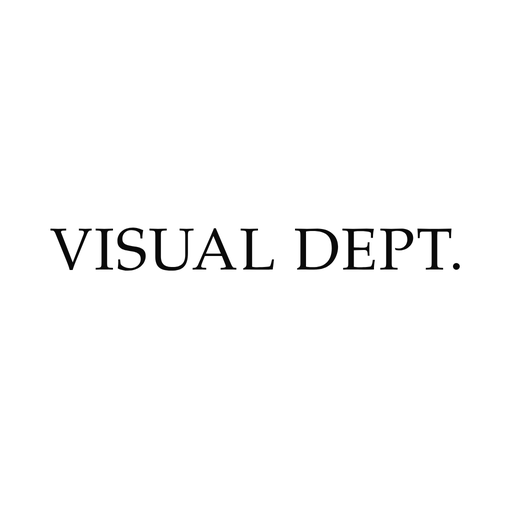
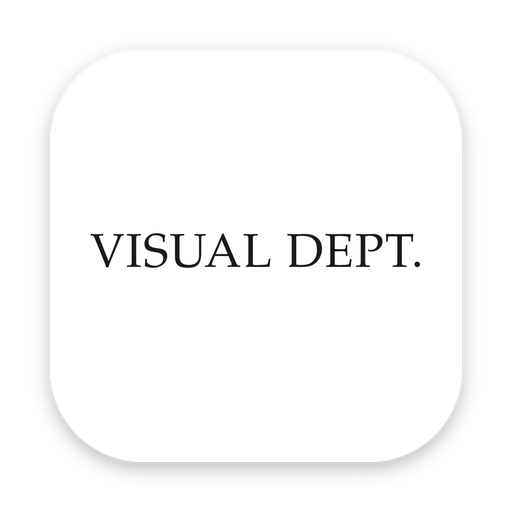
메인 배너 이미지 안 잘리게 보정, 제목 글자 줄임, 뉴스 썸네일, 둥근 앱 아이콘, 가입 승인 기능
- 배너: 칸과 비율이 다른 이미지는 전체를 보여주고 남는 곳은 같은 이미지를 흐리게 채움, 제목·요약 길이와 크기 줄임
- 뉴스: 모든 기사에 이미지 한 장(없으면 매체명 타일), 수집기가 기사 대표 이미지를 우선 사용하고 최근 2주 기사까지 채움
- 아이콘: 맥용 둥근 모서리 아이콘, 아이폰/안드로이드용 아이콘 분리, 캐시 갱신
- 가입 승인: members 명단 + 승인 대기 화면 + 관리자 회원 관리, 설정 SQL은 supabase/access.sql

Claude-Session: https://claude.ai/code/session_016iQssjkfjgjy4N2y3kdkik

Changed region(s): [[0.0625, 0.2812, 0.9062, 0.9375], [0.5625, 0.2812, 0.9375, 0.7188]]

diff --git a/index.html b/index.html
@@ -1,7 +1,8 @@
 <!doctype html>
 <html lang="en"><head><meta charset="utf-8"><meta name="viewport" content="width=device-width,initial-scale=1,viewport-fit=cover">
 <title>VISUAL DEPT.</title>
-<meta name="theme-color" content="#ffffff"><link rel="manifest" href="manifest.webmanifest"><link rel="icon" href="icon-192.png"><link rel="apple-touch-icon" href="apple-touch-icon.png">
+<meta name="theme-color" content="#ffffff"><link rel="manifest" href="manifest.webmanifest?v=3"><link rel="icon" href="icon-192.png?v=3"><link rel="apple-touch-icon" id="ati" href="apple-touch-icon.png?v=3">
+<script>if(/Mac/.test(navigator.platform)&&!navigator.maxTouchPoints)document.getElementById("ati").href="apple-touch-icon-mac.png?v=3"</script>
 <meta name="apple-mobile-web-app-capable" content="yes"><meta name="apple-mobile-web-app-title" content="VISUAL DEPT."><meta name="apple-mobile-web-app-status-bar-style" content="default">
 <style>body{margin:0}img{max-width:100%}[hidden]{display:none!important}:root{padding-top:env(safe-area-inset-top,0px);padding-bottom:env(safe-area-inset-bottom,0px)}</style>
 <script src="config.js"></script>
@@ -436,6 +437,32 @@ h1,h2,h3{margin:0;font-weight:400;text-wrap:balance}
 .gitem .ldel{position:absolute;right:4px;top:2px;border:0;background:none;color:var(--ink-3);font-size:14px;line-height:1;padding:2px 4px;display:none}
 .gitem:hover .ldel{display:block}
 .agrid .empty{column-span:all}
+
+/* v3 banner */
+.slide .bgi{inset:-60px;width:calc(100% + 120px);height:calc(100% + 120px);filter:blur(40px) saturate(1.05) brightness(.58);transform:none!important;transition:none;opacity:0}
+.slide.fitc .bgi{opacity:1}
+.slide .fgi{object-position:50% 30%}
+.slide.fitc .fgi{object-fit:cover;transform:none!important;box-shadow:0 30px 80px rgba(0,0,0,.35)}
+.slide::after{background:linear-gradient(180deg,rgba(0,0,0,0) 42%,rgba(0,0,0,.66) 100%)}
+.cap{max-width:640px;gap:10px}
+.cap h2{font-size:clamp(23px,2.5vw,38px);line-height:1.1;letter-spacing:0;display:-webkit-box;-webkit-line-clamp:3;-webkit-box-orient:vertical;overflow:hidden;text-wrap:balance}
+.ko .cap h2{font-size:clamp(21px,2.1vw,32px);line-height:1.32}
+.cap p{font-size:13.5px;line-height:1.6;max-width:52ch;display:-webkit-box;-webkit-line-clamp:2;-webkit-box-orient:vertical;overflow:hidden;opacity:.86}
+@media (max-width:600px){.slider{height:min(76vh,138vw);min-height:440px}.cap h2{font-size:22px}.ko .cap h2{font-size:20px}.cap p{font-size:13px}}
+/* v3 news thumbnails */
+.nrow .th{width:160px;aspect-ratio:3/2}
+.nrow .th.ph{display:grid;place-items:center;background:var(--soft);color:var(--ink-3);text-align:center;padding:10px;font-family:var(--f-mark);font-size:13px;letter-spacing:.04em;line-height:1.2;overflow:hidden}
+.nrow .th img{transition:transform .5s ease}.nrow .th:hover img{transform:scale(1.03)}
+@media (max-width:760px){.nrow{grid-template-columns:minmax(0,1fr) 108px}.nrow .th{width:108px}.nrow .th.ph{font-size:11px}}
+/* v3 members */
+#gateWait{width:min(380px,100%);display:grid;gap:10px;text-align:center}
+#gateWait .gw1{margin:8px 0 0;font-size:16px}#gateWait .gw2{margin:0;font-size:13.5px;color:var(--ink-2);line-height:1.6}#gateWait .gw3{margin:0;font-size:12px;color:var(--ink-3)}
+#gateWait .glinks{justify-content:center}
+.mrow{display:flex;align-items:center;justify-content:space-between;gap:12px;padding:10px 0;border-bottom:1px solid var(--line)}
+.mrow b{display:block;font-weight:500;font-size:14px;word-break:break-all}.mrow small{color:var(--ink-3);font-size:12px}
+.mrow .ma{display:flex;gap:6px;flex-shrink:0}.mrow .btn{padding:6px 10px;font-size:12px}
+.mrow.add{border:0;padding-top:0}.mrow.add .inp{flex:1;min-width:0}
+.hbtn.dots{position:relative}.hbtn.badge::after{content:"";position:absolute;top:6px;right:0;width:7px;height:7px;border-radius:50%;background:var(--alert,#c8102e)}
 </style>
 
 <div id="gate"><form id="gateForm" autocomplete="on"><h1 class="mark gmark">VISUAL DEPT.</h1>
@@ -443,7 +470,7 @@ h1,h2,h3{margin:0;font-weight:400;text-wrap:balance}
 <label class="vh" for="gatePw">Password</label><input class="inp" type="password" id="gatePw" autocomplete="current-password" minlength="6">
 <button class="btn" type="submit" id="gateIn"></button>
 <div class="glinks"><button type="button" id="gateUp"></button><button type="button" id="gateForgot"></button><button type="button" id="gateLang"></button></div>
-<p class="gerr" id="gateErr"></p><p class="gmsg" id="gateMsg"></p></form></div>
+<p class="gerr" id="gateErr"></p><p class="gmsg" id="gateMsg"></p></form><div id="gateWait" hidden></div></div>
 <div id="app" hidden>
 <div id="alert"></div>
 <header class="hd"><div class="in gut max">
@@ -719,14 +746,27 @@ function toggleSave(item){const k=item.id;if(saved[k]){const doc=saved[k]._doc||
 
 /* ================= DATA: issues & news ================= */
 const IMGATTR='referrerpolicy="no-referrer" decoding="async"';
+const slideFail=`onerror="const s=this.closest('.slide');s.classList.add('noimg');s.querySelectorAll('img').forEach(i=>i.remove())"`;
+const thumbFail=`onerror="const a=this.parentNode;a.classList.add('ph');const s=document.createElement('span');s.textContent=a.dataset.src||'';this.replaceWith(s)"`;
+function shortT(s,n){s=String(s||"").replace(/\s+/g," ").trim().replace(/\s+[|\-–—]\s+(Vogue|BoF|WWD|Hypebeast|Highsnobiety|Dazed|i-D|Fashionista|The Cut|ELLE|Harper's BAZAAR|GQ|Business of Fashion|FashionNetwork|Fashion Network)[^|]*$/i,"");if(s.length<=n)return s;let c=s.slice(0,n);const sp=c.lastIndexOf(" ");if(sp>n*.6)c=c.slice(0,sp);return c.replace(/[\s,.;:·–—-]+$/,"")+"…"}
+function fitSlide(im){const sl=im.closest(".slide");if(!sl||!im.naturalWidth)return;const box=sl.parentNode.getBoundingClientRect();const W=box.width||innerWidth,H=box.height||innerHeight*.7;
+  const ri=im.naturalWidth/im.naturalHeight,rs=W/H,d=Math.abs(Math.log(ri/rs));im.style.cssText="";
+  if(d<.24&&im.naturalWidth>=W*.5){sl.classList.remove("fitc");im.style.objectPosition=ri<rs?"50% 28%":"50% 50%";return}
+  sl.classList.add("fitc");let w=ri>rs?W:H*ri,h=ri>rs?W/ri:H;const tall=rs<1.05;
+  const pad=tall?0:Math.round(H*.07);if(!tall){const k=(H-2*pad)/h;if(k<1){w*=k;h*=k}}
+  const up=Math.min(1,(im.naturalWidth*1.6)/w);w*=up;h*=up;
+  let x=(W-w)/2,y=(H-h)/2;
+  if(tall){y=Math.max(Math.min((H-h)*.22,H*.16),0)}else if(ri<rs){x=Math.min(W-w-Math.max(W*.07,24),Math.max(W*.52,(W-w)/2));if(W<1000)x=(W-w)/2}
+  im.style.cssText=`inset:auto;left:${Math.round(x)}px;top:${Math.round(y)}px;width:${Math.round(w)}px;height:${Math.round(h)}px`}
+addEventListener("resize",()=>{clearTimeout(fitSlide.t);fitSlide.t=setTimeout(()=>document.querySelectorAll(".slide .fgi").forEach(fitSlide),150)});
 const imgFail=`onerror="this.closest('[data-img]')?.classList.add('noimg');this.remove()"`;
 
 let slideI=0,slideTimer=null,newsN=12,newsQ="";
 function home(){
   const s=SLIDES;if(!s.length)return `<section class="gut max"><div class="empty" style="padding-top:120px"><b>${t("News is on its way","뉴스를 모으는 중이에요")}</b>${t("Articles are collected every 2 hours. Check back soon.","기사는 2시간마다 자동으로 모여요. 잠시 후 다시 확인해 주세요.")}</div></section>`;
   return `<section class="slider" id="slider" aria-roledescription="carousel" aria-label="${t("Today's issues","오늘의 이슈")}">
-   ${s.map((x,i)=>`<div class="slide ${i===slideI?"on":""}" role="group" aria-label="${i+1} / ${s.length}" data-img><img src="${esc(x.img)}" alt="" ${IMGATTR} ${i>1?'loading="lazy"':""} ${imgFail}>
-     <div class="cap gut"><h2>${esc(t(x.title_en||x.title,x.title))}</h2>${x.summary?`<p>${esc(String(x.summary).slice(0,240))}${String(x.summary).length>240?"…":""}</p>`:""}
+   ${s.map((x,i)=>`<div class="slide ${i===slideI?"on":""}" role="group" aria-label="${i+1} / ${s.length}" data-img><img class="bgi" src="${esc(x.img)}" alt="" aria-hidden="true" ${IMGATTR} ${i>1?'loading="lazy"':""}><img class="fgi" src="${esc(x.img)}" alt="" ${IMGATTR} ${i>1?'loading="lazy"':""} onload="fitSlide(this)" ${slideFail}>
+     <div class="cap gut"><h2>${esc(shortT(t(x.title_en||x.title,x.title),lang==="ko"?42:78))}</h2>${x.summary?`<p>${esc(shortT(x.summary,lang==="ko"?90:150))}</p>`:""}
      <div class="acts"><a class="ext" href="${esc(x.url)}" target="_blank" rel="noopener">${t("Read","원문 보기")} ${SV.arrow}</a><button class="save" data-save="s:${i}">${isSaved(x.id)?SV.bookf:SV.book}<span>${isSaved(x.id)?t("Saved","저장됨"):t("Save","저장")}</span></button></div></div></div>`).join("")}
    <div class="pager gut"><div class="nums">${s.map((_,i)=>`<button data-sl="${i}" class="${i===slideI?"on":""}" aria-label="${i+1}">${String(i+1).padStart(2,"0")}</button>`).join("")}</div><span class="sp"></span><button class="arr" data-sl="prev" aria-label="Previous">${SV.l}</button><button class="arr" data-sl="next" aria-label="Next">${SV.r}</button></div>
    <span class="prog" id="prog"></span></section>
@@ -737,10 +777,10 @@ function home(){
 function newsRows(){const q=newsQ.trim().toLowerCase();const list=NEWS.filter(x=>!q||[x.title,x.title_en,x.summary,x.source,(x.tags||[]).join(" ")].join(" ").toLowerCase().includes(q));
   if(!list.length)return `<li class="empty"><b>${t("No matching news","찾는 뉴스가 없어요")}</b>${t("Try another keyword.","다른 키워드로 찾아 보세요.")}</li>`;
   return list.slice(0,newsN).map(x=>newsRow(x)).join("")+(list.length>newsN?`<li><button class="more" data-more>${t("More","더 보기")} (${list.length-newsN})</button></li>`:"")}
-function newsRow(x){return `<li class="nrow ${x.img?"":"noimg"}"><div class="d">${fmtMD(x.publishedAt||x.savedAt)}<b>${esc(x.source)}</b></div>
+function newsRow(x){return `<li class="nrow"><div class="d">${fmtMD(x.publishedAt||x.savedAt)}<b>${esc(x.source)}</b></div>
   <div><h3><a href="${esc(x.url)}" target="_blank" rel="noopener">${esc(t(x.title_en||x.title,x.title))}</a></h3>${lang==="ko"&&x.summary?`<p>${esc(x.summary)}</p>`:(x.title_en&&lang==="en"?`<p>${esc(x.title)}</p>`:"")}
   <div class="tg">${(x.tags||[]).slice(0,4).map(g=>"#"+esc(g)).join("  ")}</div></div>
-  ${x.img?`<a class="th" href="${esc(x.url)}" target="_blank" rel="noopener" data-img><img src="${esc(x.img)}" alt="" loading="lazy" ${IMGATTR} ${imgFail}></a>`:`<span class="th none"></span>`}
+  ${x.img?`<a class="th" href="${esc(x.url)}" target="_blank" rel="noopener" data-src="${esc(x.source||"")}"><img src="${esc(x.img)}" alt="" loading="lazy" ${IMGATTR} ${thumbFail}></a>`:`<a class="th ph" href="${esc(x.url)}" target="_blank" rel="noopener" aria-hidden="true" tabindex="-1"><span>${esc(x.source||"")}</span></a>`}
   <div class="side"><button class="save" data-save="n:${esc(x.id)}" aria-label="${t("Save","저장")}">${isSaved(x.id)?SV.bookf:SV.book}</button><a class="ext" href="${esc(x.url)}" target="_blank" rel="noopener">${t("Read","원문")} ${SV.arrow}</a></div></li>`}
 function startSlider(){clearInterval(slideTimer);const sl=$("#slider");if(!sl)return;const D=6500;
   const tick=()=>{const p=$("#prog");if(!p)return;p.style.transition="none";p.style.width="0";requestAnimationFrame(()=>{p.style.transition=`width ${D}ms linear`;p.style.width="100%"})};
@@ -1068,14 +1108,56 @@ function account(edit){const P=PREF.profile;const f=(k,l)=>`<div class="kv"><spa
    <div class="acts">${edit?`<button class="btn" id="meSave">${t("Save","저장")}</button>`:`<button class="btn ghost" id="meEdit">${t("Edit","수정")}</button>`}<button class="btn ghost" id="mePw">${t("Change password","비밀번호 변경")}</button></div>
    <div class="grp">${t("Backup","백업")}</div><p style="margin:6px 0 0;font-size:13px;color:var(--ink-2)">${t("Everything is saved to your account as you go. A backup is an extra copy as a file. Restoring only adds what is missing — nothing is overwritten.","모든 데이터는 계정에 계속 저장돼요. 백업은 파일로 남기는 추가 사본이에요. 복원은 빠진 항목만 되살리고 덮어쓰지 않아요.")}</p>
    <div class="acts"><button class="btn" id="bk">${t("Back up now","지금 백업")}</button><label class="btn ghost" for="rsf" style="cursor:pointer">${t("Restore from file","파일로 복원")}</label><input type="file" id="rsf" accept="application/json,.json" hidden></div>
+   ${accessSection()}
    <div class="grp">${t("App icon","앱 아이콘")}</div><div class="iconprev"><img src="icon-192.png" alt="VISUAL DEPT. icon"><small>${t("On iPhone: Share → Add to Home Screen.","아이폰: 공유 → 홈 화면에 추가")}</small></div>
    <div class="acts" style="margin-top:22px"><button class="btn ghost" id="so">${t("Sign out","로그아웃")}</button></div>`);
   $("#meEdit")&&($("#meEdit").onclick=()=>account(true));
   $("#meSave")&&($("#meSave").onclick=()=>{["name","brand"].forEach(k=>{PREF.profile[k]=$("#me-"+k).value.trim()});savePrefs();toast(t("Saved","저장했어요"));account(false)});
-  $("#bk").onclick=backupNow;$("#rsf").onchange=e=>{const f=e.target.files[0];if(f){closeSheet();restoreFrom(f)}};
+  bindAccess();$("#bk").onclick=backupNow;$("#rsf").onchange=e=>{const f=e.target.files[0];if(f){closeSheet();restoreFrom(f)}};
   $("#mePw").onclick=async()=>{const {error}=await SB.auth.resetPasswordForEmail(UEMAIL,{redirectTo:location.origin+location.pathname});toast(error?error.message:t("We emailed you a link to set a new password","새 비밀번호를 정하는 링크를 메일로 보냈어요"))};
   $("#so").onclick=async()=>{await SB.auth.signOut();location.reload()}}
 $("#acctBtn").onclick=()=>account(false);
+
+/* ================= ACCESS (sign-up approval) ================= */
+let ACC={setup:false,admin:false,pending:0};
+const ACCESS_SQL="-- VISUAL DEPT. · 가입 승인 기능\n-- Supabase 대시보드 → SQL Editor → New query → 전체 붙여넣고 Run. 여러 번 실행해도 안전합니다.\n-- 켜는 순간 이미 가입한 계정은 모두 '승인'으로 들어가고, 이후 새로 가입한 사람은 관리자가 승인해야 쓸 수 있어요.\n\n-- 1) 회원 명단\ncreate table if not exists public.members (\n  email text primary key,\n  user_id uuid references auth.users(id) on delete set null,\n  status text not null default 'pending' check (status in ('pending','approved','blocked')),\n  role text not null default 'member' check (role in ('member','admin')),\n  requested_at timestamptz not null default now(),\n  decided_at timestamptz\n);\nalter table public.members enable row level security;\n\n-- 처음 켤 때만: 이미 있는 계정은 모두 승인\ndo $$ begin\n  if not exists (select 1 from public.members) then\n    insert into public.members (email, user_id, status, decided_at)\n      select lower(email), id, 'approved', now() from auth.users where email is not null\n      on conflict (email) do nothing;\n  end if;\nend $$;\n\n-- 관리자 지정 (비워 두면 가장 먼저 가입한 계정)\nupdate public.members set role = 'admin', status = 'approved'\n  where email = lower(coalesce(nullif('__ADMIN__', ''), (select email from auth.users where email is not null order by created_at limit 1)));\n\n-- 2) 승인 여부 확인 함수\ncreate or replace function public.vd_ok() returns boolean language sql stable security definer set search_path = public as $$\n  select exists (select 1 from public.members where user_id = auth.uid() and status = 'approved')\n$$;\ncreate or replace function public.vd_admin() returns boolean language sql stable security definer set search_path = public as $$\n  select exists (select 1 from public.members where user_id = auth.uid() and status = 'approved' and role = 'admin')\n$$;\n\n-- 3) 새로 가입하면 자동으로 '승인 대기' (관리자가 미리 승인해 둔 이메일이면 바로 사용 가능)\ncreate or replace function public.vd_new_user() returns trigger language plpgsql security definer set search_path = public as $$\nbegin\n  if new.email is null then return new; end if;\n  insert into public.members (email, user_id, status) values (lower(new.email), new.id, 'pending')\n    on conflict (email) do update set user_id = excluded.user_id;\n  return new;\nend $$;\ndrop trigger if exists vd_new_user on auth.users;\ncreate trigger vd_new_user after insert on auth.users for each row execute function public.vd_new_user();\n\n-- 4) 명단 접근: 본인 줄은 본인이, 전체는 관리자만\ndrop policy if exists \"see self\" on public.members;\ncreate policy \"see self\" on public.members for select to authenticated\n  using (user_id = auth.uid() or (select public.vd_admin()));\ndrop policy if exists \"admin manage\" on public.members;\ncreate policy \"admin manage\" on public.members for all to authenticated\n  using ((select public.vd_admin())) with check ((select public.vd_admin()));\n\n-- 5) 승인된 사람만 데이터·이미지 사용\ndrop policy if exists \"own docs\" on public.docs;\ncreate policy \"own docs\" on public.docs for all to authenticated\n  using (owner = auth.uid() and (select public.vd_ok())) with check (owner = auth.uid() and (select public.vd_ok()));\ndrop policy if exists \"read shared\" on public.shared_docs;\ncreate policy \"read shared\" on public.shared_docs for select to authenticated using ((select public.vd_ok()));\ndrop policy if exists \"edit channels\" on public.shared_docs;\ncreate policy \"edit channels\" on public.shared_docs for all to authenticated\n  using (collection = 'channels' and (select public.vd_ok())) with check (collection = 'channels' and (select public.vd_ok()));\n\ndrop policy if exists \"own files read\" on storage.objects;\ncreate policy \"own files read\" on storage.objects for select to authenticated\n  using (bucket_id = 'archive' and (storage.foldername(name))[1] = auth.uid()::text and (select public.vd_ok()));\ndrop policy if exists \"own files write\" on storage.objects;\ncreate policy \"own files write\" on storage.objects for insert to authenticated\n  with check (bucket_id = 'archive' and (storage.foldername(name))[1] = auth.uid()::text and (select public.vd_ok()));\ndrop policy if exists \"own files update\" on storage.objects;\ncreate policy \"own files update\" on storage.objects for update to authenticated\n  using (bucket_id = 'archive' and (storage.foldername(name))[1] = auth.uid()::text and (select public.vd_ok()));\ndrop policy if exists \"own files delete\" on storage.objects;\ncreate policy \"own files delete\" on storage.objects for delete to authenticated\n  using (bucket_id = 'archive' and (storage.foldername(name))[1] = auth.uid()::text and (select public.vd_ok()));\n";
+async function checkAccess(){const r=await SB.from("members").select("email,status,role").eq("user_id",UID).maybeSingle();
+  if(r.error){const m=(r.error.message||"")+" "+(r.error.code||"");if(/members|42P01|PGRST205|PGRST202|schema cache|does not exist/i.test(m))return {setup:false};return {setup:false,err:r.error}}
+  return {setup:true,row:r.data}}
+async function countPending(){if(!ACC.admin)return;const r=await SB.from("members").select("email",{count:"exact",head:true}).eq("status","pending");ACC.pending=r.count||0;$("#acctBtn").classList.toggle("badge",ACC.pending>0)}
+function showWaiting(st){$("#app").hidden=true;$("#gate").hidden=false;$("#gateForm").hidden=true;const w=$("#gateWait");w.hidden=false;
+  const blocked=st==="blocked";
+  w.innerHTML=`<h1 class="mark gmark">VISUAL DEPT.</h1><p class="gw1">${blocked?t("This account doesn't have access.","이 계정은 사용 권한이 없어요."):t("Your request has been sent.","가입 신청이 접수됐어요.")}</p>
+   <p class="gw2">${blocked?t("Ask the owner if you think this is a mistake.","잘못된 것 같다면 관리자에게 문의해 주세요."):t("You can start as soon as the owner approves it. This page checks again on its own.","관리자가 승인하면 바로 사용할 수 있어요. 이 화면은 저절로 다시 확인해요.")}</p>
+   <p class="gw3">${esc(UEMAIL)}</p><div class="glinks"><button type="button" id="gwRe">${t("Check again","다시 확인")}</button><button type="button" id="gwOut">${t("Sign out","로그아웃")}</button><button type="button" id="gwLang">${lang==="en"?"한국어":"English"}</button></div>`;
+  const again=async()=>{const {data:{session}}=await SB.auth.getSession();if(!session)return location.reload();started=false;signedIn(session.user)};
+  $("#gwRe").onclick=again;$("#gwOut").onclick=async()=>{await SB.auth.signOut();location.reload()};$("#gwLang").onclick=()=>{lang=lang==="en"?"ko":"en";LS.set("lang",lang);applyLang();showWaiting(st)};
+  clearTimeout(showWaiting.t);if(!blocked)showWaiting.t=setTimeout(again,20000)}
+function membersSheet(){sheet(t("Members","회원 관리"),`<p class="tip" style="margin:0 0 12px">${t("New sign-ups wait here until you approve them. Add an email in advance and that person can start right after signing up.","새로 가입한 사람은 승인 전까지 여기서 기다려요. 이메일을 미리 추가해 두면 그 사람은 가입하자마자 바로 쓸 수 있어요.")}</p>
+   <form id="mAdd" class="mrow add"><label class="vh" for="mEmail">Email</label><input class="inp" id="mEmail" type="email" placeholder="${t("Email to approve","승인할 이메일")}" required><button class="btn">${t("Approve","승인 추가")}</button></form>
+   <div id="mList"><p class="tip">${t("Loading…","불러오는 중…")}</p></div>`);
+  $("#mAdd").onsubmit=async e=>{e.preventDefault();const em=$("#mEmail").value.trim().toLowerCase();if(!em)return;const {error}=await SB.from("members").upsert({email:em,status:"approved",decided_at:new Date().toISOString()},{onConflict:"email"});toast(error?error.message:t("Approved","승인했어요"));$("#mEmail").value="";loadMembers()};
+  loadMembers()}
+async function loadMembers(){const box=$("#mList");if(!box)return;const {data,error}=await SB.from("members").select("*").order("requested_at",{ascending:false});if(error){box.innerHTML=`<p class="tip">${esc(error.message)}</p>`;return}
+  const fmt=d=>d?new Date(d).toLocaleDateString(lang==="ko"?"ko-KR":"en-GB"):"";
+  const grp=(st,title,acts)=>{const L=data.filter(m=>m.status===st);return `<div class="grp">${title} <small>${L.length}</small></div>${L.length?L.map(m=>`<div class="mrow"><div><b>${esc(m.email)}</b><small>${m.role==="admin"?t("Owner","관리자")+" · ":""}${m.user_id?t("Signed up ","가입 ")+fmt(m.requested_at):t("Not signed up yet","아직 가입 전")}</small></div><div class="ma">${m.role==="admin"?"":acts(m)}</div></div>`).join(""):`<p class="tip" style="margin:6px 0 0">${st==="pending"?t("No requests waiting.","기다리는 신청이 없어요."):"—"}</p>`}`};
+  const b=(k,em,l,ghost)=>`<button class="btn ${ghost?"ghost":""}" data-m${k}="${esc(em)}">${l}</button>`;
+  box.innerHTML=grp("pending",t("Waiting for approval","승인 대기"),m=>b("ok",m.email,t("Approve","승인"))+b("no",m.email,t("Decline","거절"),1))
+    +grp("approved",t("Approved","승인됨"),m=>b("no",m.email,t("Remove access","권한 해제"),1))
+    +(data.some(m=>m.status==="blocked")?grp("blocked",t("Declined","거절됨"),m=>b("ok",m.email,t("Approve","승인"),1)+b("del",m.email,t("Delete","삭제"),1)):"");
+  box.onclick=async e=>{const x=e.target.closest("[data-mok],[data-mno],[data-mdel]");if(!x)return;const em=x.dataset.mok||x.dataset.mno||x.dataset.mdel;
+    if(x.dataset.mno!=null&&!confirm(t(`Remove access for ${em}?`,`${em} 의 사용 권한을 막을까요?`)))return;
+    if(x.dataset.mdel!=null&&!confirm(t(`Delete ${em} from the list?`,`${em} 을(를) 명단에서 지울까요?`)))return;
+    const q=x.dataset.mdel!=null?SB.from("members").delete().eq("email",em):SB.from("members").update({status:x.dataset.mok!=null?"approved":"blocked",decided_at:new Date().toISOString()}).eq("email",em);
+    const {error}=await q;if(error)toast(error.message);loadMembers();countPending()}}
+function accessSection(){
+  if(ACC.admin)return `<div class="grp">${t("Members","회원 관리")}</div><div class="kv"><span>${t("Sign-ups","가입")}</span><span>${t("Only people you approve can use the app","내가 승인한 사람만 사용 가능")}</span></div><div class="acts"><button class="btn" id="mOpen">${t("Manage members","회원 관리")}${ACC.pending?` · ${t("waiting","대기")} ${ACC.pending}`:""}</button></div>`;
+  if(ACC.setup)return "";
+  return `<div class="grp">${t("Sign-up approval","가입 승인")}</div><p style="margin:6px 0 0;font-size:13px;color:var(--ink-2)">${t("Right now anyone with the link can sign up. To allow only people you approve, copy the setup below, open Supabase → SQL Editor, paste it and press Run once. Accounts that already exist stay approved, and you become the owner.","지금은 링크만 있으면 누구나 가입할 수 있어요. 내가 승인한 사람만 쓰게 하려면 아래 설정을 복사해 Supabase → SQL Editor에 붙여넣고 Run을 한 번 눌러 주세요. 이미 있는 계정은 그대로 승인되고, 지금 이 계정이 관리자가 돼요.")}</p>
+   <div class="acts"><button class="btn" id="sqlCopy">${t("Copy setup","설정 복사")}</button><a class="btn ghost" id="sqlOpen" target="_blank" rel="noopener" href="${esc(sqlEditorUrl())}">${t("Open Supabase","Supabase 열기")}</a></div>`}
+function sqlEditorUrl(){try{const ref=new URL(CFG.supabaseUrl).hostname.split(".")[0];return `https://supabase.com/dashboard/project/${ref}/sql/new`}catch(_){return "https://supabase.com/dashboard"}}
+function bindAccess(){$("#mOpen")&&($("#mOpen").onclick=membersSheet);
+  $("#sqlCopy")&&($("#sqlCopy").onclick=async()=>{const sql=ACCESS_SQL.replace("__ADMIN__",String(UEMAIL).toLowerCase().replace(/'/g,"''"));try{await navigator.clipboard.writeText(sql);toast(t("Copied — paste it in the SQL Editor and press Run","복사했어요 · SQL Editor에 붙여넣고 Run을 눌러 주세요"))}catch(_){const ta=document.createElement("textarea");ta.value=sql;ta.className="inp";ta.style.cssText="width:100%;height:140px;margin-top:10px;font:12px monospace";$("#sqlCopy").closest(".acts").after(ta);ta.select();toast(t("Select all and copy","전체 선택 후 복사해 주세요"))}})}
 
 /* ================= DRAWER ================= */
 function openDrawer(){$("#drawer").classList.add("on");$("#drawer").setAttribute("aria-hidden","false");$("#scrim").classList.add("on")}
@@ -1148,7 +1230,12 @@ let started=false,recovering=false;
 const gMsg=(m,err)=>{$("#gateErr").textContent=err?m:"";$("#gateMsg").textContent=err?"":m};
 function gateText(){const L=(en,ko)=>t(en,ko);$("#gateEmail").placeholder=L("Email","이메일");$("#gatePw").placeholder=L("Password (6+ characters)","비밀번호 (6자 이상)");$("#gateIn").textContent=recovering?L("Save new password","새 비밀번호 저장"):L("Sign in","로그인");$("#gateUp").textContent=L("Create account","회원가입");$("#gateForgot").textContent=L("Forgot password","비밀번호 찾기");$("#gateLang").textContent=lang==="en"?"한국어":"English"}
 async function signedIn(u){if(started)return;started=true;UID=u.id;UEMAIL=u.email||"";UJOINED=u.created_at?new Date(u.created_at).toLocaleDateString(lang==="ko"?"ko-KR":"en-GB"):"";
-  $("#gate").hidden=true;$("#app").hidden=false;gMsg("");
+  gMsg("");
+  try{const a=await checkAccess();ACC={setup:a.setup,admin:!!(a.row&&a.row.role==="admin"&&a.row.status==="approved"),pending:0};
+    if(a.setup&&(!a.row||a.row.status!=="approved")){showWaiting(a.row?.status);return}}catch(e){console.error(e)}
+  clearTimeout(showWaiting.t);$("#gateWait").hidden=true;$("#gateForm").hidden=false;
+  $("#gate").hidden=true;$("#app").hidden=false;
+  countPending().then(()=>{if(ACC.pending)toast(t(`${ACC.pending} sign-up request(s) waiting`,`가입 요청 ${ACC.pending}건이 기다리고 있어요`))}).catch(()=>{});
   try{await loadAll()}catch(e){console.error(e);toast(t("Couldn't load your data — check your connection","데이터를 불러오지 못했어요 · 연결을 확인해 주세요"))}
   applyLang();render(false);handleQuickSave()}
 $("#gateForm").addEventListener("submit",async e=>{e.preventDefault();const email=$("#gateEmail").value.trim(),pw=$("#gatePw").value;
